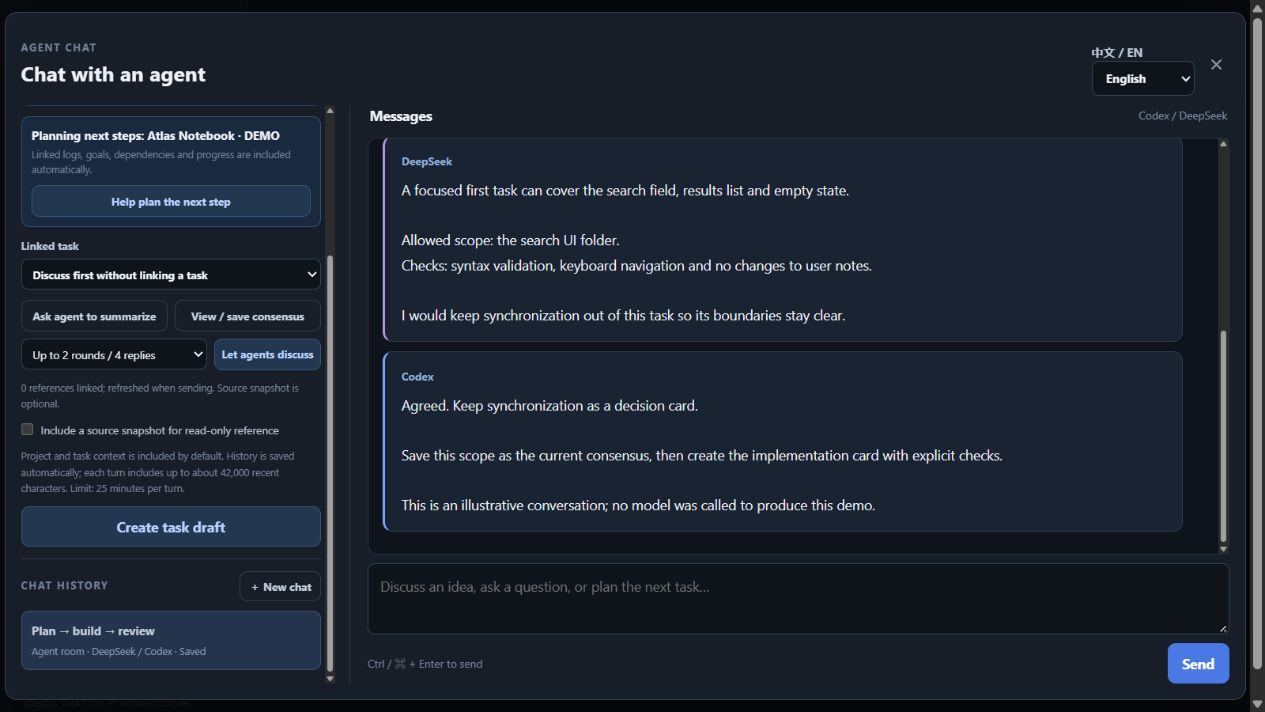
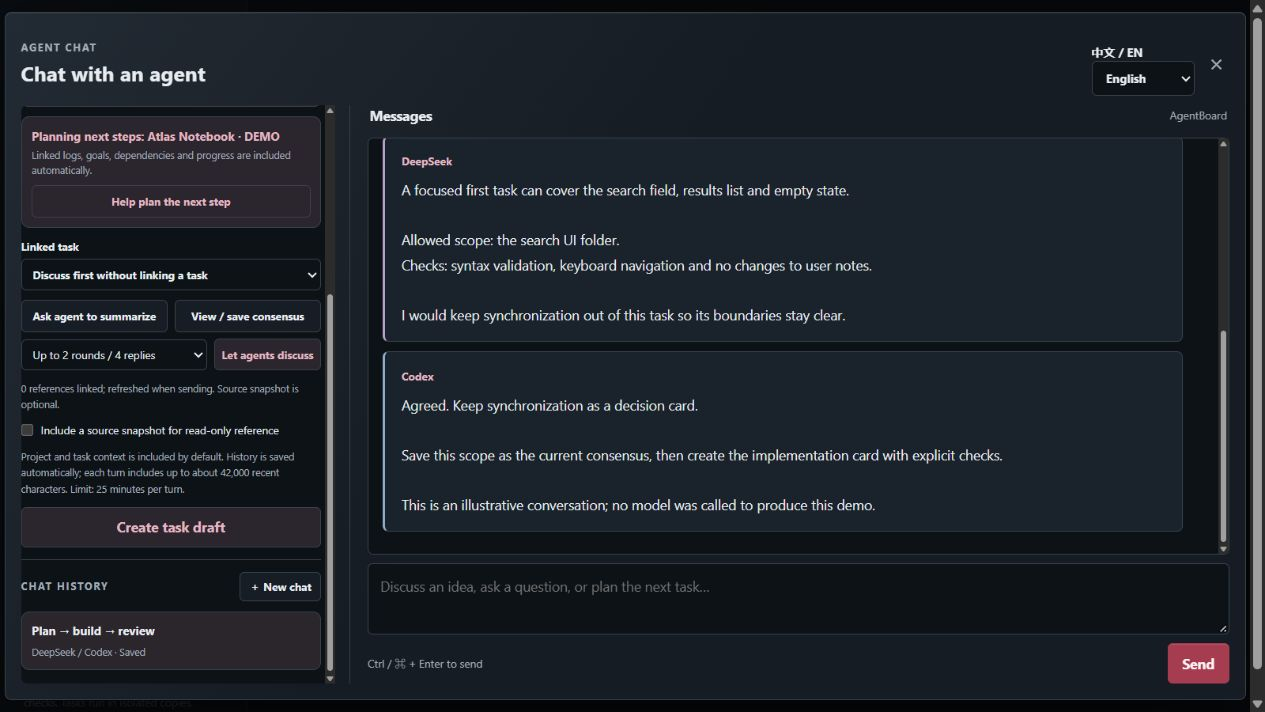
Showcase the latest agent workflows and original interface themes

diff --git a/static/chat.js b/static/chat.js
@@ -56,7 +56,7 @@ async function refreshChat() {
     const sessions = (state.chats||[]).filter(c=>c.project_id===chatProject).slice().reverse();
     const sessionSignature=JSON.stringify([chatProject,currentChat,sessions]);
     if(sessionSignature!==lastSessionSignature){
-      $('#chat-sessions').innerHTML = sessions.map(c=>`<button class="chat-session ${c.id===currentChat?'active':''}" data-chat="${esc(c.id)}"><strong>${esc(c.title)}</strong><small>${c.mode==='group'?esc((c.members||[]).map(agentName).join(' / ')):esc(agentName(c.agent))} · ${c.status==='running'?'回复中':c.status==='error'?'需查看':'已保存'}</small></button>`).join('') || '<p class="hint">当前项目还没有对话</p>';
+      $('#chat-sessions').innerHTML = sessions.map(c=>`<button class="chat-session ${c.id===currentChat?'active':''}" data-chat="${esc(c.id)}"><strong>${esc(c.title)}</strong><small>${c.mode==='group'?esc((c.members||[]).map(agentName).join(' / ')):esc(agentName(c.agent))} · ${AgentBoardI18n.choose(c.status==='running'?'回复中':c.status==='error'?'需查看':'已保存',c.status==='running'?'Replying':c.status==='error'?'Needs attention':'Saved')}</small></button>`).join('') || '<p class="hint">当前项目还没有对话</p>';
       document.querySelectorAll('[data-chat]').forEach(b=>b.onclick=async()=>{
       if(chatSending)return;
       currentChat=b.dataset.chat; chatData=null; lastMessageSignature='';

diff --git a/static/agents.js b/static/agents.js
@@ -36,7 +36,7 @@ function renderRoomMembers(){
   const allowed=currentChat?chatData?.members:null;
   const members=allowed || selectedMembers();
   $('#group-chat-help').textContent=say('成员：','Members: ')+members.map(profileName).join(' · ')+say('。/成员ID 定向回复，/all 全体回复，最多六次回复。',' · /agent-id addresses one member; /all invites everyone. Up to six replies.');
-  for(const option of $('#group-rounds').options){const n=Number(option.value),count=Math.min(6,members.length*n);option.textContent=say(`最多${n}轮 / ${count}次回复`,`Up to ${n} rounds / ${count} replies`);}
+  for(const option of $('#group-rounds').options){const n=Number(option.value),count=Math.min(6,members.length*n);option.textContent=say(`最多${n}轮 / ${count}次回复`,`Up to ${n} ${n===1?'round':'rounds'} / ${count} ${count===1?'reply':'replies'}`);}
   for(const option of $('#chat-agent').options){
     if(option.value==='all'){option.hidden=!group;continue;}
     option.disabled=Boolean(group&&allowed&&!allowed.includes(option.value)) || !profiles().some(p=>p.id===option.value&&p.enabled);

diff --git a/README.md b/README.md
@@ -24,15 +24,53 @@ AgentBoard connects the discussion and delivery stages of a local project. Codex
 
 ## See it in action
 
-### Project board
+### Project board · Graphite theme
 
 ![AgentBoard task board in English](docs/assets/board.jpg)
 
-### Shared agent room
+### Shared agent room · Obsidian theme
 
 ![AgentBoard shared agent room in English](docs/assets/group-chat.jpg)
 
 *Screenshots use the built-in, read-only demo workspace. Cards and conversations are illustrative sample data, not reports of real agent execution.*
+
+### Appearance, kept personal
+
+Three original themes under **Settings → Appearance**, with instant switching, keyboard selection and local preference storage. The original dark theme remains available. [Design notes](docs/APPEARANCE.md)
+
+![Graphite, Construct and Obsidian theme selector](docs/assets/appearance.jpg)
+
+<details>
+<summary>Compare the three workspace themes</summary>
+
+| Graphite · Minimal | Construct · Burgundy | Obsidian · Metal |
+| --- | --- | --- |
+| [![Graphite workspace](docs/assets/theme-graphite.jpg)](docs/assets/theme-graphite.jpg) | [![Construct workspace](docs/assets/theme-construct.jpg)](docs/assets/theme-construct.jpg) | [![Obsidian workspace](docs/assets/theme-obsidian.jpg)](docs/assets/theme-obsidian.jpg) |
+
+These workspace samples use the Chinese interface. Both interface languages support every theme.
+
+</details>
+
+## New in 0.2.2
+
+| Update | What it enables |
+| --- | --- |
+| **Agent management** | Keep Codex and DeepSeek, add a compatible CLI or Chat Completions adapter, or rehearse with a local simulator without an account. |
+| **Room membership** | Choose invited agents and use `/agent-id` to address one member. Six-reply discussion limits remain in place. |
+| **Local preferences** | Chinese / English switching and three optional workspace themes, without model calls. |
+| **Windows startup fix** | Desktop shortcuts using `pythonw.exe` now handle windowless logging correctly; reopening checks the page response. |
+
+API adapters support discussion and read-only investigation; CLI implementation must be explicitly enabled. Configuration checks do not call a model or verify a live account. [Adapter guide](docs/AGENTS.md) · [Full changelog](CHANGELOG.md)
+
+<details>
+<summary>See the agent management screen</summary>
+
+![Local agent adapter configuration](docs/assets/agents.jpg)
+
+This is the read-only demonstration screen. Availability depends on the local installation; the screenshot does not establish provider authentication.
+
+</details>
+
 
 ## What you can do
 

diff --git a/README.zh-CN.md b/README.zh-CN.md
@@ -13,6 +13,42 @@ AgentBoard 是一个本地运行的 Codex / DeepSeek 任务看板。两种 Agent
 
 以上来自内置只读演示，任务与对话均为明确标注的示例数据，不代表真实模型执行记录。
 
+### 外观偏好
+
+在“设置 → 外观”选择静灰、构成或黑曜，支持即时切换、键盘选择和本机记忆，也可恢复原始深色。[设计说明](docs/APPEARANCE.md)
+
+![三套原创主题的外观选择页](docs/assets/appearance.jpg)
+
+<details>
+<summary>展开对比三种工作区外观</summary>
+
+| 静灰 · 极简 | 构成 · 酒红 | 黑曜 · 金属 |
+| --- | --- | --- |
+| [![静灰工作区](docs/assets/theme-graphite.jpg)](docs/assets/theme-graphite.jpg) | [![构成工作区](docs/assets/theme-construct.jpg)](docs/assets/theme-construct.jpg) | [![黑曜工作区](docs/assets/theme-obsidian.jpg)](docs/assets/theme-obsidian.jpg) |
+
+</details>
+
+## 0.2.2 新版内容
+
+| 更新 | 可以做什么 |
+| --- | --- |
+| Agent 管理 | 保留 Codex / DeepSeek，添加命令行或兼容 API，也能先用无需账号的本地模拟器演练 |
+| 群聊成员选择 | 自选受邀成员，用 `/成员ID` 定向发言，继续保留最多六次回复的限制 |
+| 本机偏好 | 中英界面切换、三套原创主题，不消耗模型用量 |
+| Windows 启动修复 | 修复静默桌面快捷方式的空响应；重开时确认网页正常响应 |
+
+API接入仅支持讨论和只读调查，命令行开发能力需单独启用。“检查配置”不调用模型，也不代表账号登录或服务连接已经验证。[接入说明](docs/AGENTS.md) · [完整开发日志](CHANGELOG.md)
+
+<details>
+<summary>查看 Agent 管理界面</summary>
+
+![Agent管理与接入配置](docs/assets/agents.jpg)
+
+上图是只读演示界面，本机配置存在不等于真实账号已经通过验证。
+
+</details>
+
+
 ## 主要功能
 
 页面顶部和弹窗内可切换中文 / English，浏览器会记住选择。切换不会清空草稿，也不会翻译项目名称、任务正文、聊天原文或日志，不产生翻译模型用量。

diff --git a/CHANGELOG.md b/CHANGELOG.md
@@ -2,6 +2,8 @@
 
 ## 0.2.2 — 2026-10-29
 
+- Refreshed the bilingual release overview with current demo screenshots, agent-adapter documentation and an optional three-theme gallery; corrected English room-status labels and singular reply/round wording.
+
 - Fixed empty HTTP responses from Windows desktop shortcuts using pythonw.exe without console streams. Windowless launcher diagnostics are saved locally, and reopening checks page readiness rather than only an occupied port.
 
 ## 0.2.1 — 2026-10-29
